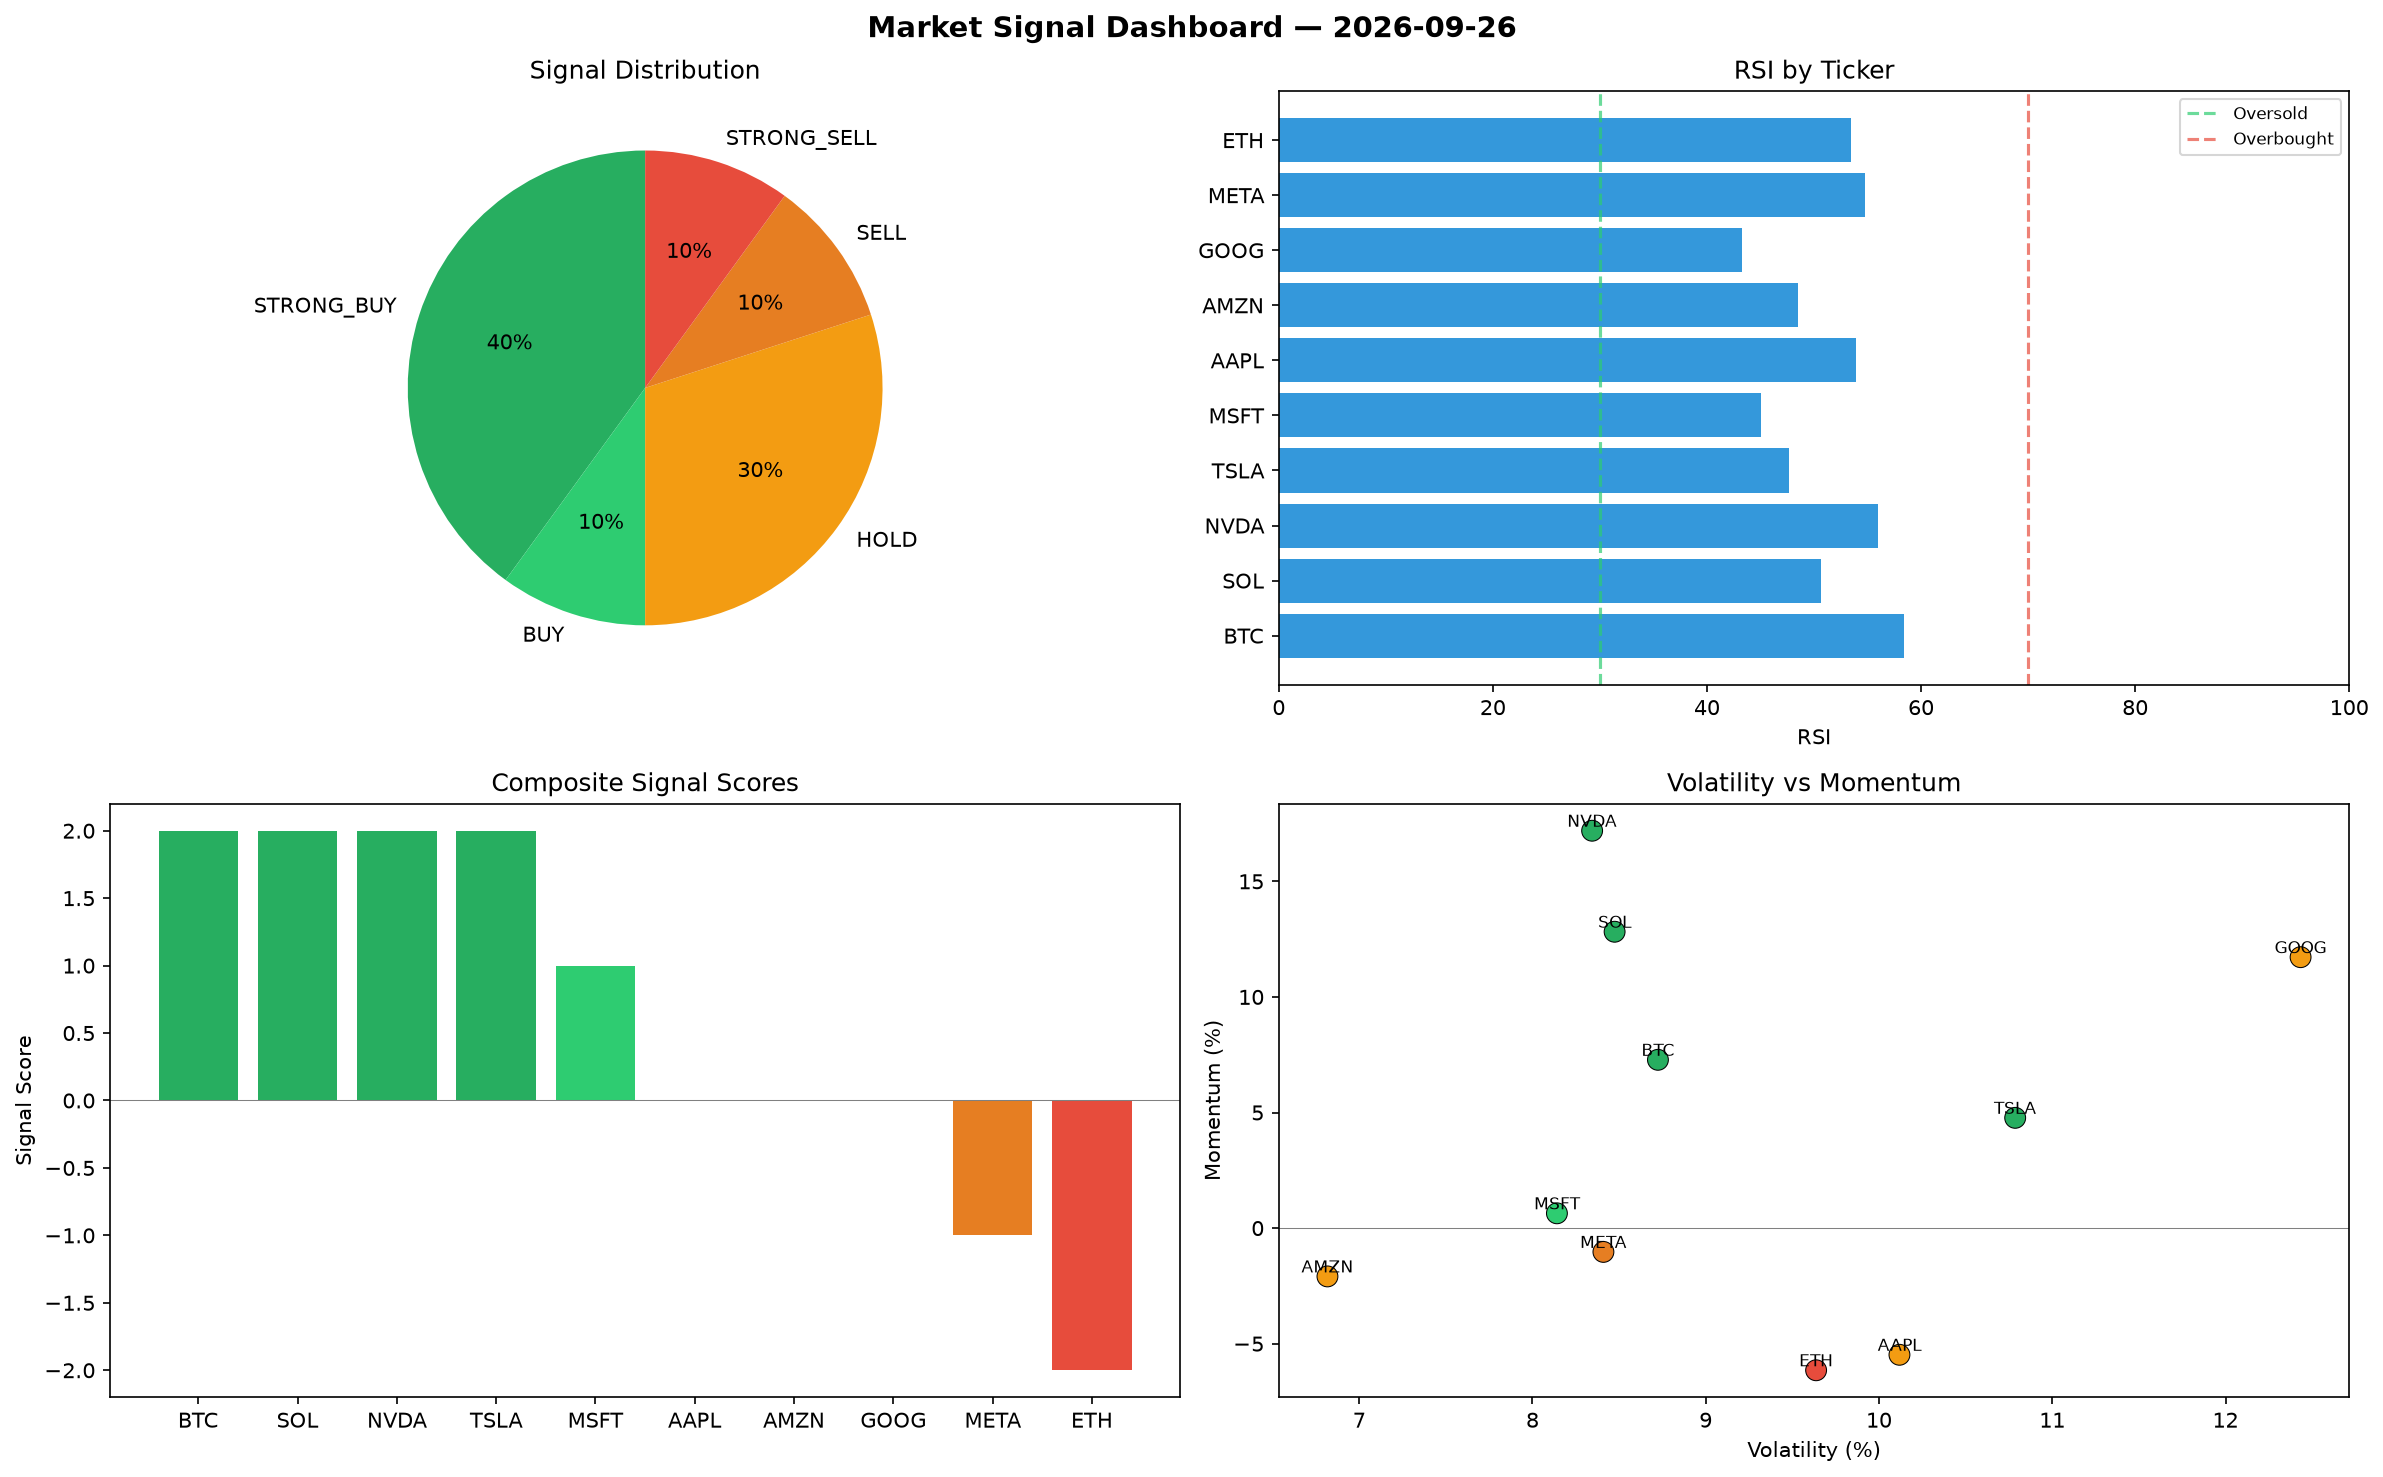
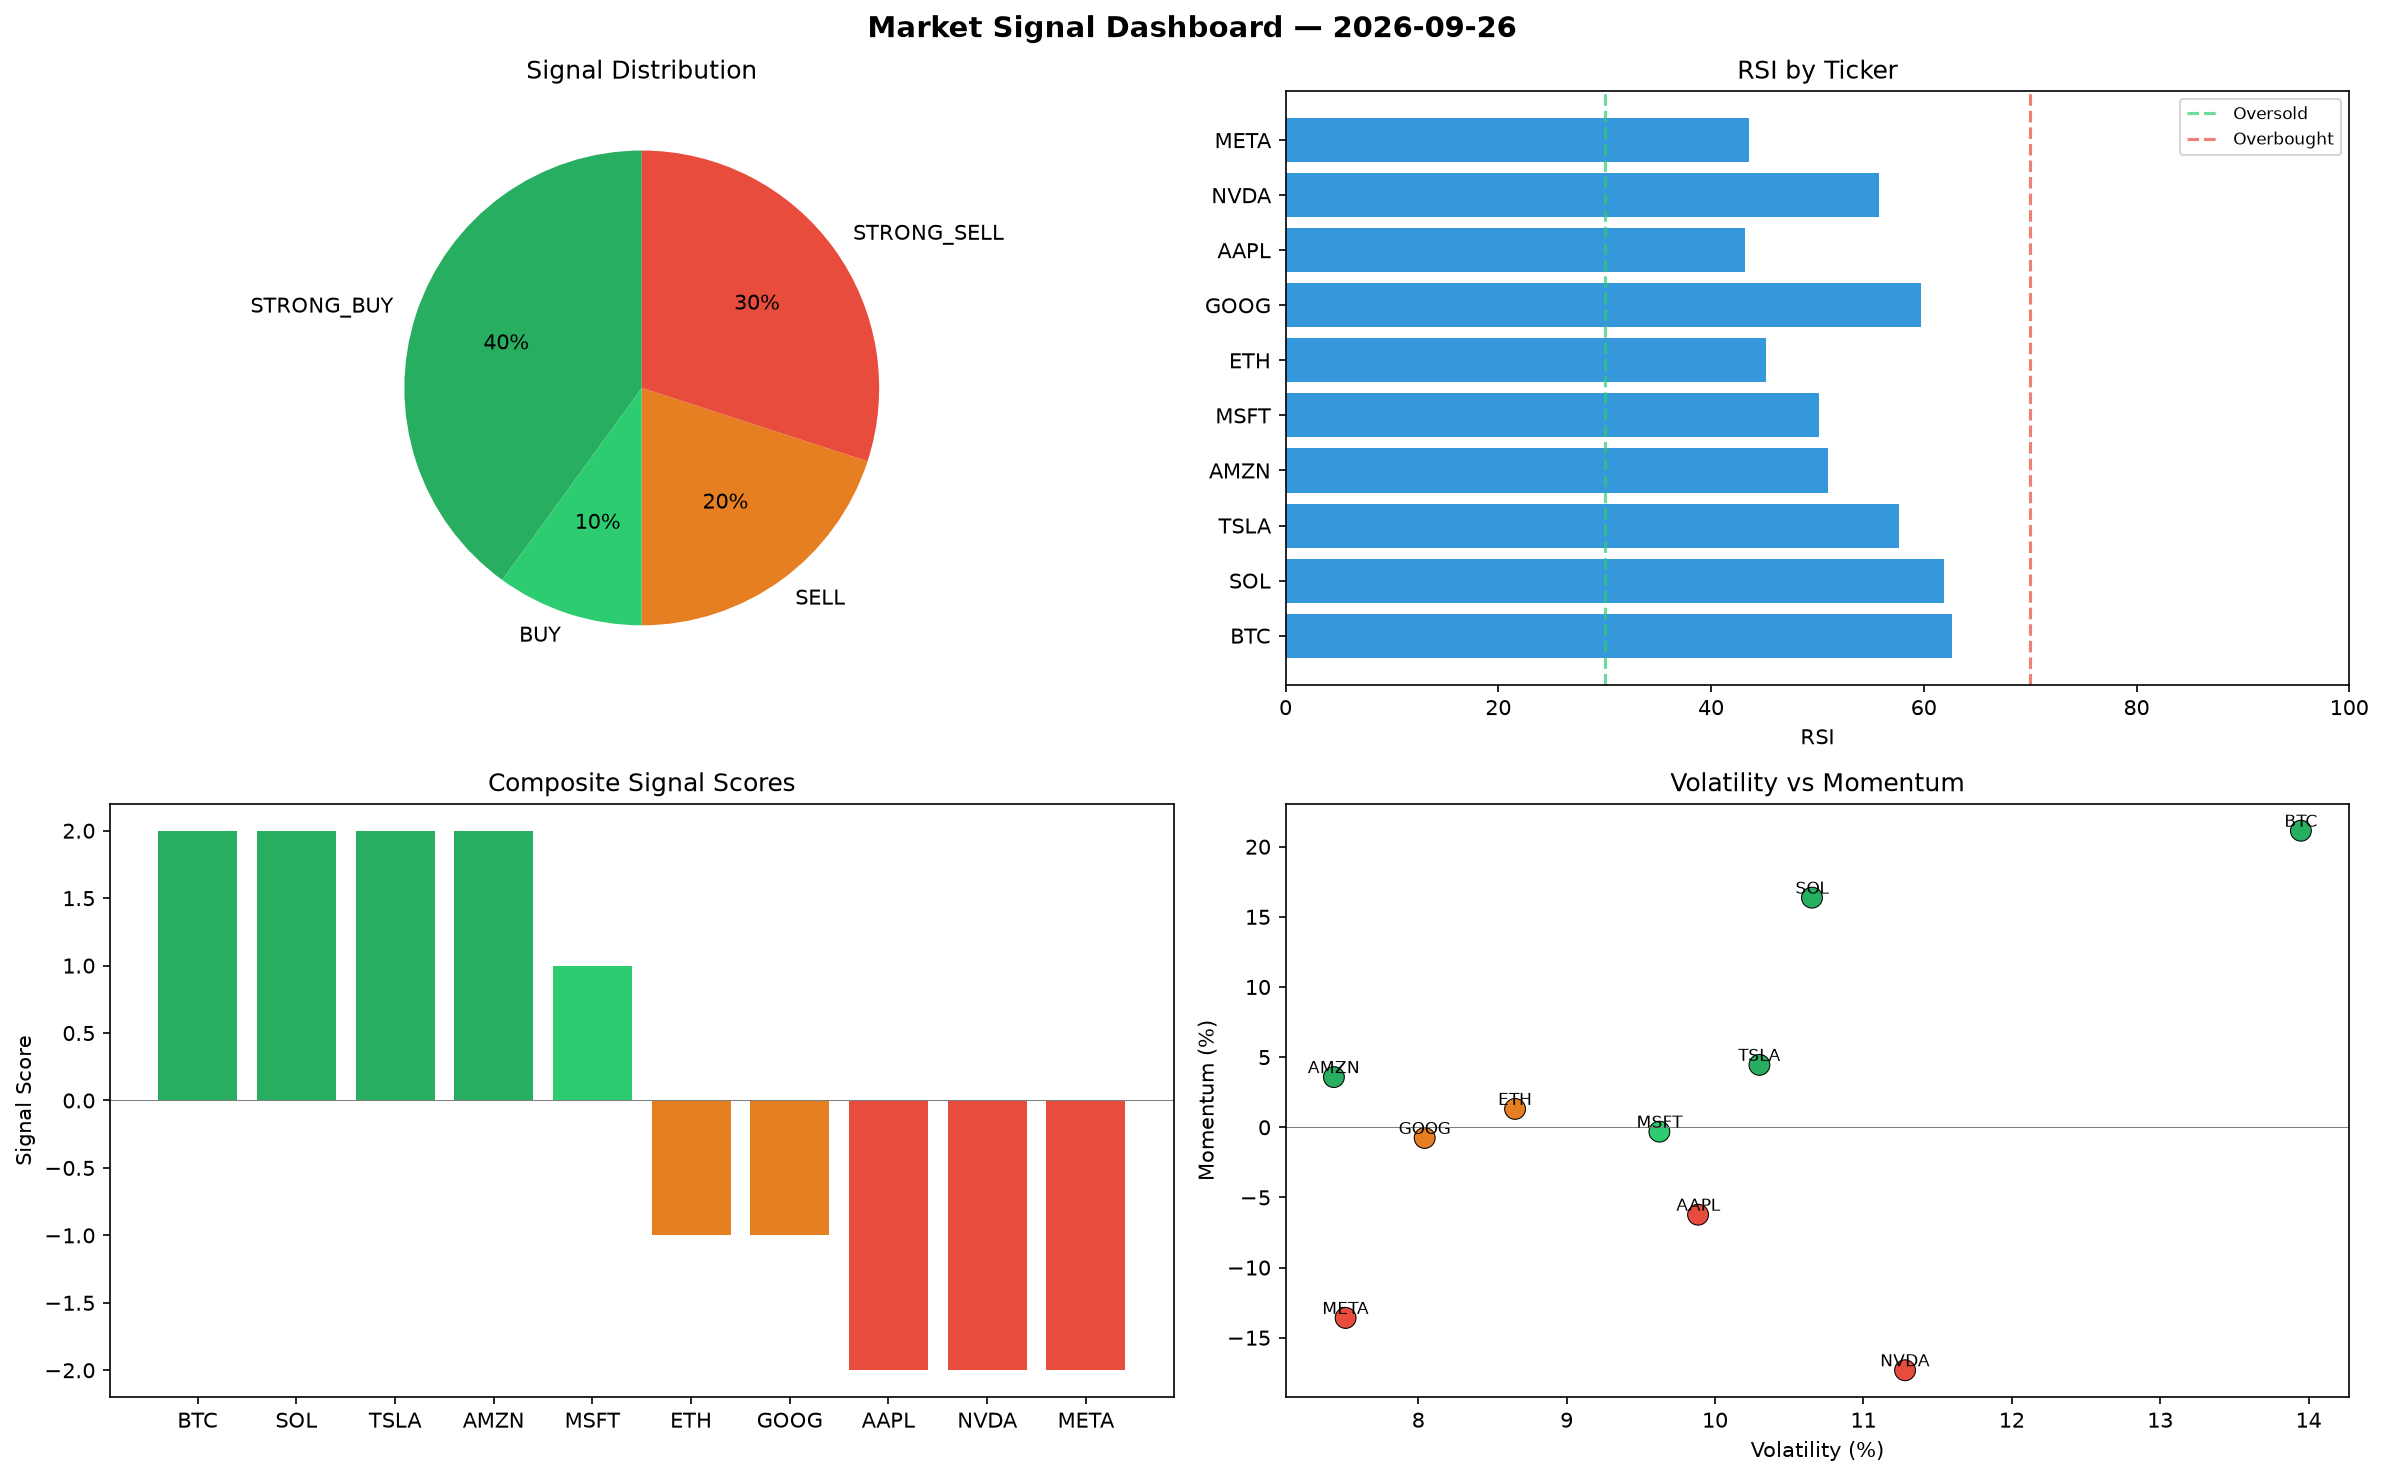
automated-bots: market signals 2026-09-26T13:16

diff --git a/logs/2026-09-26.md b/logs/2026-09-26.md
@@ -1,6 +1,6 @@
 # Market Signal Report — 2026-09-26
 
-**Run ID:** `f11766b066` | **Buy:** 5 | **Sell:** 2 | **Hold:** 3
+**Run ID:** `d0fb19f8fa` | **Buy:** 5 | **Sell:** 5 | **Hold:** 0
 
 ![Dashboard](2026-09-26_dashboard.png)
 
@@ -8,28 +8,28 @@
 
 | Ticker | Price | Signal | Score | RSI | Momentum | Confidence |
 |--------|-------|--------|-------|-----|----------|------------|
-| BTC | $3719.74 | **STRONG_BUY** | 2 | 58.37 | 0.0728 | 0.5 |
-| SOL | $4609.16 | **STRONG_BUY** | 2 | 50.69 | 0.1282 | 0.5 |
-| NVDA | $1461.23 | **STRONG_BUY** | 2 | 55.96 | 0.1719 | 0.5 |
-| TSLA | $751.93 | **STRONG_BUY** | 2 | 47.68 | 0.0477 | 0.5 |
-| MSFT | $2156.58 | **BUY** | 1 | 45.08 | 0.0064 | 0.25 |
-| AAPL | $2378.85 | **HOLD** | 0 | 53.89 | -0.0548 | 0.0 |
-| AMZN | $4409.38 | **HOLD** | 0 | 48.52 | -0.0209 | 0.0 |
-| GOOG | $2676.4 | **HOLD** | 0 | 43.28 | 0.1172 | 0.0 |
-| META | $4009.8 | **SELL** | -1 | 54.79 | -0.0103 | 0.25 |
-| ETH | $4174.83 | **STRONG_SELL** | -2 | 53.49 | -0.0615 | 0.5 |
+| BTC | $3089.62 | **STRONG_BUY** | 2 | 62.62 | 0.2114 | 0.5 |
+| SOL | $4247.18 | **STRONG_BUY** | 2 | 61.88 | 0.1637 | 0.5 |
+| TSLA | $632.15 | **STRONG_BUY** | 2 | 57.63 | 0.0445 | 0.5 |
+| AMZN | $2205.77 | **STRONG_BUY** | 2 | 50.99 | 0.0358 | 0.5 |
+| MSFT | $4212.58 | **BUY** | 1 | 50.16 | -0.0031 | 0.25 |
+| ETH | $2984.48 | **SELL** | -1 | 45.21 | 0.0131 | 0.25 |
+| GOOG | $3857.96 | **SELL** | -1 | 59.77 | -0.0076 | 0.25 |
+| AAPL | $3343.15 | **STRONG_SELL** | -2 | 43.22 | -0.0623 | 0.5 |
+| NVDA | $51.16 | **STRONG_SELL** | -2 | 55.82 | -0.1732 | 0.5 |
+| META | $2227.33 | **STRONG_SELL** | -2 | 43.56 | -0.1359 | 0.5 |
 
 ## Delta vs Yesterday
 
 | Ticker | Today | Yesterday | Price Change | Signal Changed |
 |--------|-------|-----------|-------------|----------------|
-| BTC | STRONG_BUY | STRONG_BUY | 📈 216.59% | — |
-| SOL | STRONG_BUY | HOLD | 📈 119.1% | ⚠ YES |
-| NVDA | STRONG_BUY | STRONG_BUY | 📈 343.66% | — |
-| TSLA | STRONG_BUY | SELL | 📈 130.88% | ⚠ YES |
-| MSFT | BUY | STRONG_SELL | 📉 -16.58% | ⚠ YES |
-| AAPL | HOLD | HOLD | 📉 -35.09% | — |
-| AMZN | HOLD | HOLD | 📉 -9.07% | — |
-| GOOG | HOLD | HOLD | 📈 7619.64% | — |
-| META | SELL | STRONG_BUY | 📉 -7.92% | ⚠ YES |
-| ETH | STRONG_SELL | STRONG_SELL | 📈 112.82% | — |
+| BTC | STRONG_BUY | STRONG_BUY | 📈 162.96% | — |
+| SOL | STRONG_BUY | HOLD | 📈 101.89% | ⚠ YES |
+| TSLA | STRONG_BUY | SELL | 📈 94.1% | ⚠ YES |
+| AMZN | STRONG_BUY | HOLD | 📉 -54.51% | ⚠ YES |
+| MSFT | BUY | STRONG_SELL | 📈 62.95% | ⚠ YES |
+| ETH | SELL | STRONG_SELL | 📈 52.14% | ⚠ YES |
+| GOOG | SELL | HOLD | 📈 11027.66% | ⚠ YES |
+| AAPL | STRONG_SELL | HOLD | 📉 -8.77% | ⚠ YES |
+| NVDA | STRONG_SELL | STRONG_BUY | 📉 -84.47% | ⚠ YES |
+| META | STRONG_SELL | STRONG_BUY | 📉 -48.85% | ⚠ YES |
